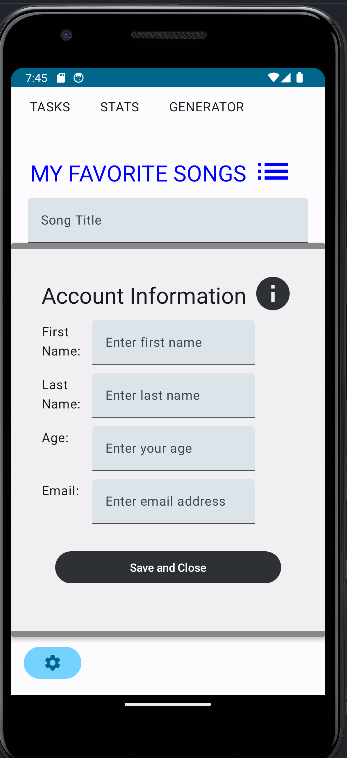
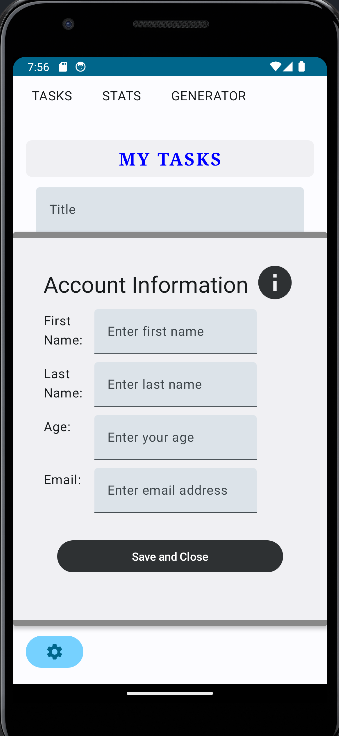
Update images and focus app page

diff --git a/_portfolio/focusapp.md b/_portfolio/focusapp.md
@@ -4,21 +4,39 @@ excerpt: "Android app built with compose<br/><img src='/images/FocusApp/Focus_Ma
 collection: portfolio
 ---
 
-## Project
+## Project (Work in progress)
 
 Working alongside [AJ](https://github.com/aj-govil) and [Vincent](https://github.com/vincenttiltin) on our [FocusApp](https://github.com/aj-govil/AppDevII-FocusApp)
 
 Whilst it is still a work in progress, it's been equally fun and challenging to pickup Kotlin and Jetpack Compose for the first time to create an app that I actually would want to use
 
-## Functionality
+## Vision
 
-CRUD
+# Our goal here was to create a task list manager that emphasizes working on what matters to you most.
 
-Add images here:
+You can track our progress on [our public repository here](https://github.com/aj-govil/AppDevII-FocusApp)
 
-We actually tried setting this up to be up on [render](https://bakery-frontend.onrender.com/) but only the front page works
-Unfortunately none of the buttons work
+To do this we:
+
+- Limit number of tasks to 3 
+- Minimal UI, focused on keeping YOU focused on what you need to
+- Account preferences for theme so you can pick what is best for you
+
+
+## Upcoming
+
+# Firebase
+    - Setting up account login and authentication with firebase
+
+# Code Orgnization
+    - Repositories and Providers to faciliate test creation and integration of new features
+    - Theme selection
+    - Edit tasks
+    - View stats on previous tasks
+    - Update UI layout of app
+
 
 ## Contributors
 
-Team members who worked really hard along side me to get this project delivered
+Ajesh Govil - [Github](https://github.com/aj-govil)
+Vincent Tiltin - [Github](https://github.com/aj-govil/AppDevII-FocusApp)
